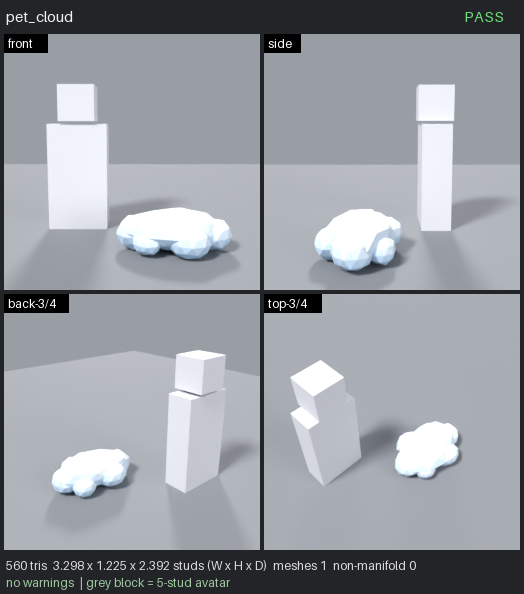
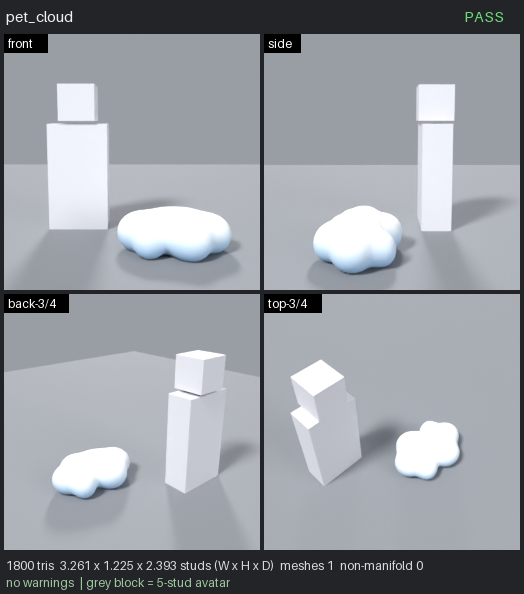
feat(steal-a-slime): pet cloud v2: soft smooth-shaded puffs (1800 tris, new mesh version)
Rebuilt the pet cloud from fused metaball puffs with smooth normals and a soft flat top,
same 3.26 x 1.225 x 2.39 footprint and blue-to-white gradient. Uploaded as version 2 of
asset 76853347194916 (new mesh id 131511097265313); MeshAssets and the pin test updated.

diff --git a/shared/modeling-kit/models/_pet_cloud.py b/shared/modeling-kit/models/_pet_cloud.py
@@ -1,23 +1,40 @@
-# Shared builder for pet_cloud (and its preview scene): lumpy low-poly cloud puffs, light-blue underside fading to white.
+# Shared builder for pet_cloud (and its preview scene): soft cartoon cloud. Round puffs fused into one skin
+# (metaballs, like the goo), smooth-shaded, flat-ish top for the pet, light-blue underside fading to white.
 from lib import *
+from lib.goo import Ball, metaball_mesh, paint_goo
+import math
 
 WHITE, BLUE = rgb(255, 255, 255), rgb(168, 208, 244)
-# (name, x, y, z, radius, squash x/y/z)
+TOP = 1.225  # pet stands here
+# (x, y, z, surface semi-axes)
 PUFFS = [
-    ("Core", 0.0, 0.0, 0.62, 1.0, (1.45, 1.1, 0.58)),
-    ("PuffL", -1.05, 0.1, 0.5, 0.62, (1.0, 1.05, 0.8)),
-    ("PuffR", 1.1, -0.1, 0.48, 0.58, (1.0, 1.0, 0.8)),
-    ("PuffF", 0.35, -0.85, 0.46, 0.55, (1.05, 1.0, 0.8)),
-    ("PuffB", -0.35, 0.88, 0.5, 0.55, (1.1, 1.0, 0.82)),
-    ("PuffFL", -0.8, -0.7, 0.4, 0.42, (1, 1, 0.8)),
-    ("PuffBR", 0.8, 0.75, 0.42, 0.45, (1, 1, 0.8)),
+    (0.0, 0.0, 0.58, (1.10, 0.74, 0.78)),  # body, becomes the flat top
+    (-1.12, 0.10, 0.50, (0.60, 0.62, 0.52)),
+    (1.14, -0.08, 0.48, (0.56, 0.58, 0.50)),
+    (0.40, -0.82, 0.46, (0.58, 0.46, 0.48)),
+    (-0.42, 0.84, 0.48, (0.60, 0.48, 0.50)),
+    (-0.80, -0.70, 0.42, (0.42, 0.38, 0.42)),
+    (0.86, 0.72, 0.42, (0.44, 0.40, 0.42)),
 ]
+FX, FY = 0.95, 0.92  # footprint fit (metaballs bulge where they merge)
+K = 0.30  # soft shoulder of the flat top
 
 
-def cloud_parts():
-    parts = []
-    for i, (n, x, y, z, r, sq) in enumerate(PUFFS):
-        o = blob(n, r, (x, y * 0.82, z), seed=40 + i, subdiv=2, squash=(sq[0], sq[1] * 0.9, sq[2]), jitter=0.07)
-        gradient(o, BLUE, WHITE)
-        parts.append(o)
-    return parts
+def _soft_top(z):
+    z0 = TOP - K
+    return z if z <= z0 else z0 + K * math.tanh((z - z0) / K)
+
+
+def cloud_parts(tris=1800, res=0.07, smooth=1):
+    o = metaball_mesh("PetCloud", [Ball((x * FX, y * FY, z), (s[0] * FX, s[1] * FY, s[2])) for x, y, z, s in PUFFS], resolution=res, tris=tris, smooth=smooth)
+    me = o.data
+    for v in me.vertices:
+        v.co.z = _soft_top(max(v.co.z, 0.0)) * 1.026
+    me.update()
+
+    def col(co, n):  # light blue at the base fading to white by about 60% height
+        t = min(1.0, max(0.0, co.z / (TOP * 0.8)))
+        return mix(BLUE, WHITE, t * t * (3 - 2 * t))
+
+    paint_goo(o, col)
+    return [o]

diff --git a/shared/modeling-kit/models/pet_cloud.py b/shared/modeling-kit/models/pet_cloud.py
@@ -1,8 +1,12 @@
-# pet_cloud: low-poly cloud the follow pet (FollowPets) sits on. 3.3 x 2.4 x 1.2 studs, 560 tris.
+# pet_cloud: soft cartoon cloud the follow pet (FollowPets) sits on. 3.3 x 2.4 x 1.2 studs.
 # Runtime-only decor: the client clones one per follower and glides it behind its owner; the pet stands on the flat top.
-# Flat-ish top (z = 1.2) for the pet, lumpy puffs round the rim, light blue underside fading to white (puffs: _pet_cloud.py).
-# Origin bottom centre, 1 BU = 1 stud. Front faces -Y.
+# Round puffs fused into one smooth-shaded skin (metaballs, _pet_cloud.py), flat-ish top (z = 1.2) for the pet,
+# light blue underside fading to white. Origin bottom centre, 1 BU = 1 stud. Front faces -Y.
 from lib import *
 from models._pet_cloud import cloud_parts
 
-finish("pet_cloud", cloud_parts())
+o = finish("pet_cloud", cloud_parts())
+a = o.data.attributes.get("keep_smooth")
+for p, d in zip(o.data.polygons, a.data):
+    p.use_smooth = bool(d.value)
+o.data.attributes.remove(a)

diff --git a/shared/modeling-kit/LESSONS.md b/shared/modeling-kit/LESSONS.md
@@ -159,3 +159,4 @@ Format: `- [model/YYYY-MM-DD/bot] lesson` — one concrete, reusable sentence or
 - [fountain silo hole/2026-10-18/jolt] A "hole between two staves" that shows pale/white is not necessarily open faces: check the whole mesh first (`bmesh` boundary edges, edge winding, ray casts with back faces culled, `tools/fountain_silo_render.py`, which culls back faces like Roblox). The 5-stud pale patch above the red door was vertex paint: `models/slime_fountain.py` paints the door lintel by vertex z, so the quad strip above the lintel (z 10.0..15.1) got cream bottom corners and wood top corners, a cream-to-wood gradient. It is in `out/slime_fountain.fbx` too; the split had the same 4120 faces (no open or flipped face; the cut seams are open edges with coincident vertices). Fixed in `models/slime_fountain_split.py` (`fix_door_strip`, silo piece only); the whole mesh and the generator are not changed (the same one-liner belongs in the generator for the next full re-export). `upload.py --update` minted a new meshId (silo 126104512688719 -> 103574045671668); the script prints it, copy it to `uploaded.json` and `MeshAssets.luau`.
 - [pet_cloud/2026-10-18/jolt] A cloud = a flat squashed core (r 1.0, squash 1.45 x 1.1 x 0.58) plus 6 smaller subdiv-2 puffs round the rim, vertical gradient light blue to white: 560 tris, reads as a cloud in the Roblox look and leaves a flat top for a pet. Pulling the y spread in (x0.82) fixed a too-deep footprint; check the bbox after placing puffs.
 - [pet_cloud/2026-10-18/jolt] The kit's views have no straight top-down tile. For a top render, rotate the object 90 deg about X in a preview scene script (env flag) and render the front view; the ground plane then shows behind it, so use it for shape only. Previews that combine a slime and a prop: scale each part with `o.scale` and move it with `o.location` before `finish()` (parts from lib builders have their origin at the world origin).
+- [pet_cloud v2/2026-10-19/jolt] Soft cartoon cloud = 7 metaball ellipsoids (lib/goo.py `metaball_mesh`, res 0.07, decimate to 1800 tris, 1 smooth pass) + `paint_goo` (keep_smooth) + re-apply `use_smooth` after `finish()`. Flat top without a crease: tanh soft-clamp of z over the last 0.3 studs, then rescale. Metaballs bulge where they merge: fit the footprint by scaling puff x/y positions (0.95/0.92), and pull puffs apart (more than looks right) or the lobes melt into one bun. Re-importing the FBX shows smooth faces survive (1800/1800 smooth, no split normals). A new FBX version of a Model asset gets a NEW inner mesh id: `upload.py --update` keeps the old meshId/meshSize in uploaded.json, so run `tools/probe_meshids.py` afterwards and fix both by hand (and MeshAssets.luau).

diff --git a/shared/modeling-kit/sheets/pet_cloud_rounds.md b/shared/modeling-kit/sheets/pet_cloud_rounds.md
@@ -6,3 +6,15 @@
 | r02 | 3.2 s | 560 | 3.30 x 1.23 x 2.39 | Pulled the puffs' y spread (x0.82) and squash (x0.9) in: on the 3.2 x 1.2 x 2.4 target. FBX + `--look roblox` check passed, uploaded as a new asset (see uploaded.json). |
 
 Preview renders (cloud x0.9 and a tier-3 slime x0.55 on top, as FollowPets mounts them): `/workspace/roblox/renders/pet_cloud_{alone,with_pet}_*.png`, made with `models/_pet_cloud_scene.py`.
+
+## Cloud v2 (2026-10-19): softer and smoother
+| round | wall | tris | size (W x H x D studs) | what changed |
+|---|---|---|---|---|
+| r03 | 5.1 s | 1800 | 3.47 x 1.16 x 2.61 | New builder: 7 puffs as metaball ellipsoids fused into one skin (lib/goo.py), smooth-flagged, soft-clamped flat top. Smooth but a featureless bun, too big. |
+| r04 | 2.8 s | 1800 | 3.30 x 1.19 x 2.40 | Footprint fit (x0.95 / x0.92 on puff x / y). |
+| r05 | 3.3 s | 1800 | 3.30 x 1.225 x 2.40 | Top lifted x1.026 to the old 1.225 height. |
+| r06 | 3.2 s | 1800 | 3.26 x 1.225 x 2.39 | Puffs pulled apart and the body narrowed so the lobes read; one smooth pass instead of two. |
+| r07 | 3.2 s | 1800 | 3.26 x 1.225 x 2.39 | Blue-to-white gradient now ends at 80% height (blue underside shows). Final. Uploaded as version 2 of asset 76853347194916, new mesh id (uploaded.json). |
+
+Smooth check: re-imported out/pet_cloud.fbx: 1800/1800 faces smooth, 0 of 902 vertices carry split normals. Colours are vertex colours (Col), no UVs/textures.
+Renders: `/workspace/roblox/renders/pet_mounts/cloud_v2_*.png`.
